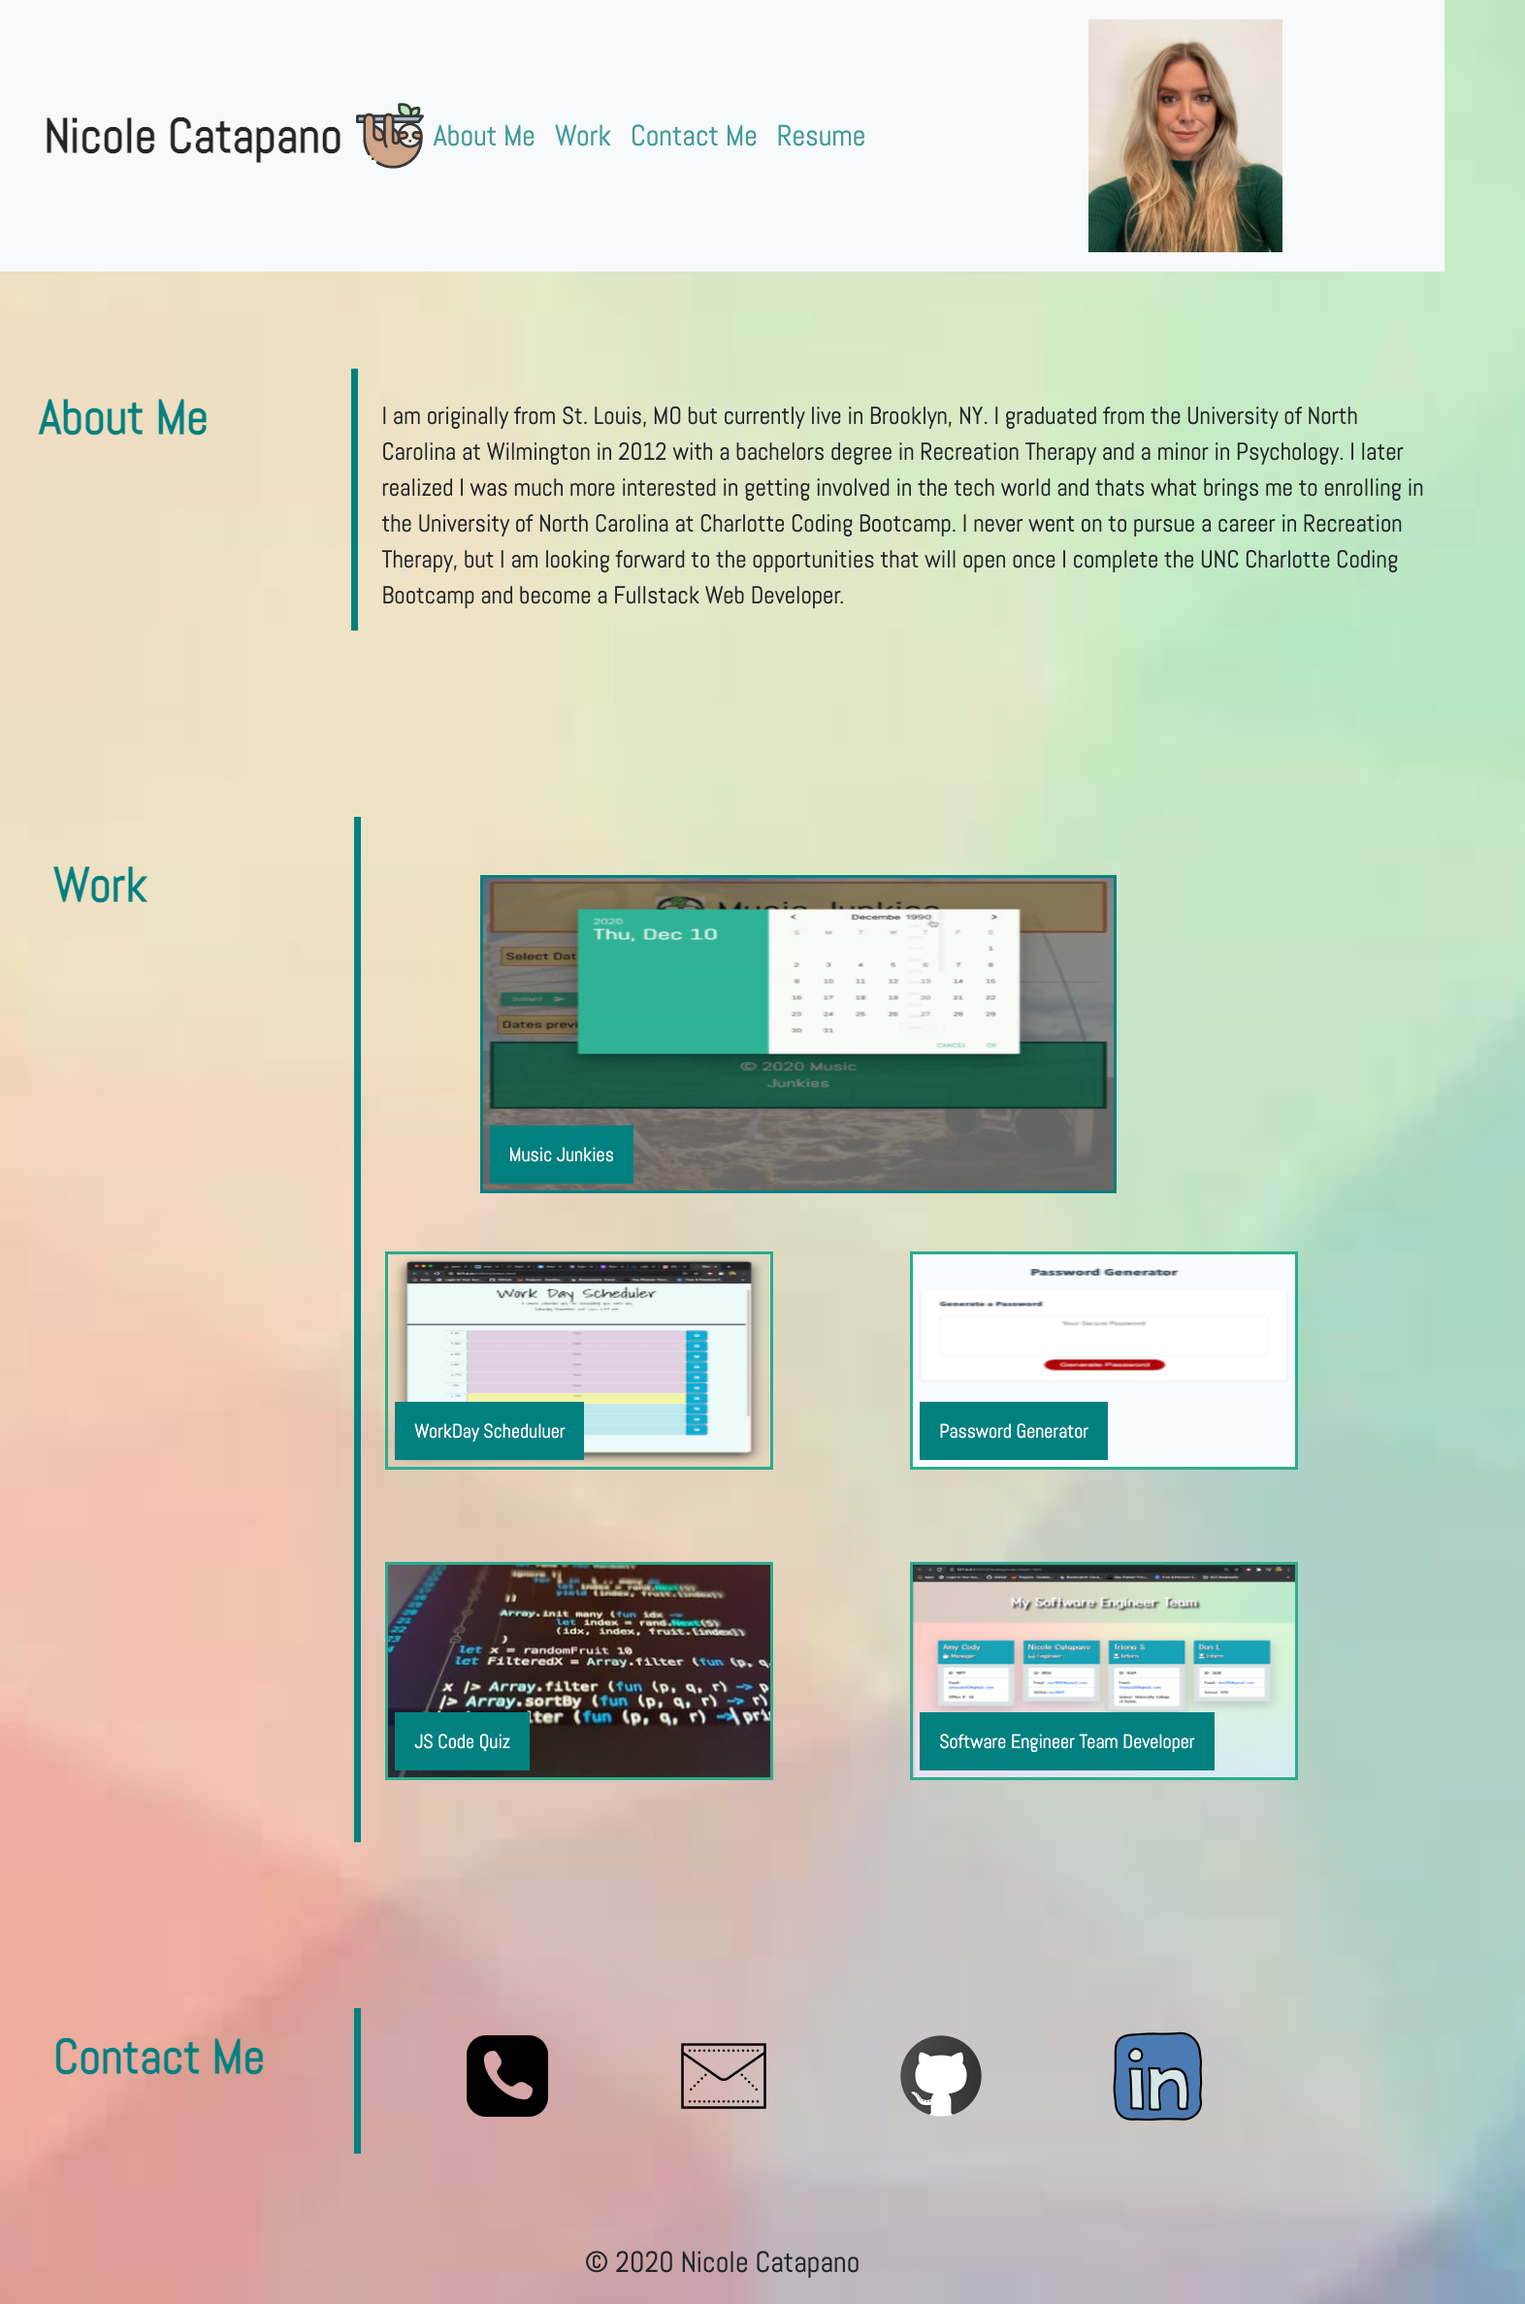
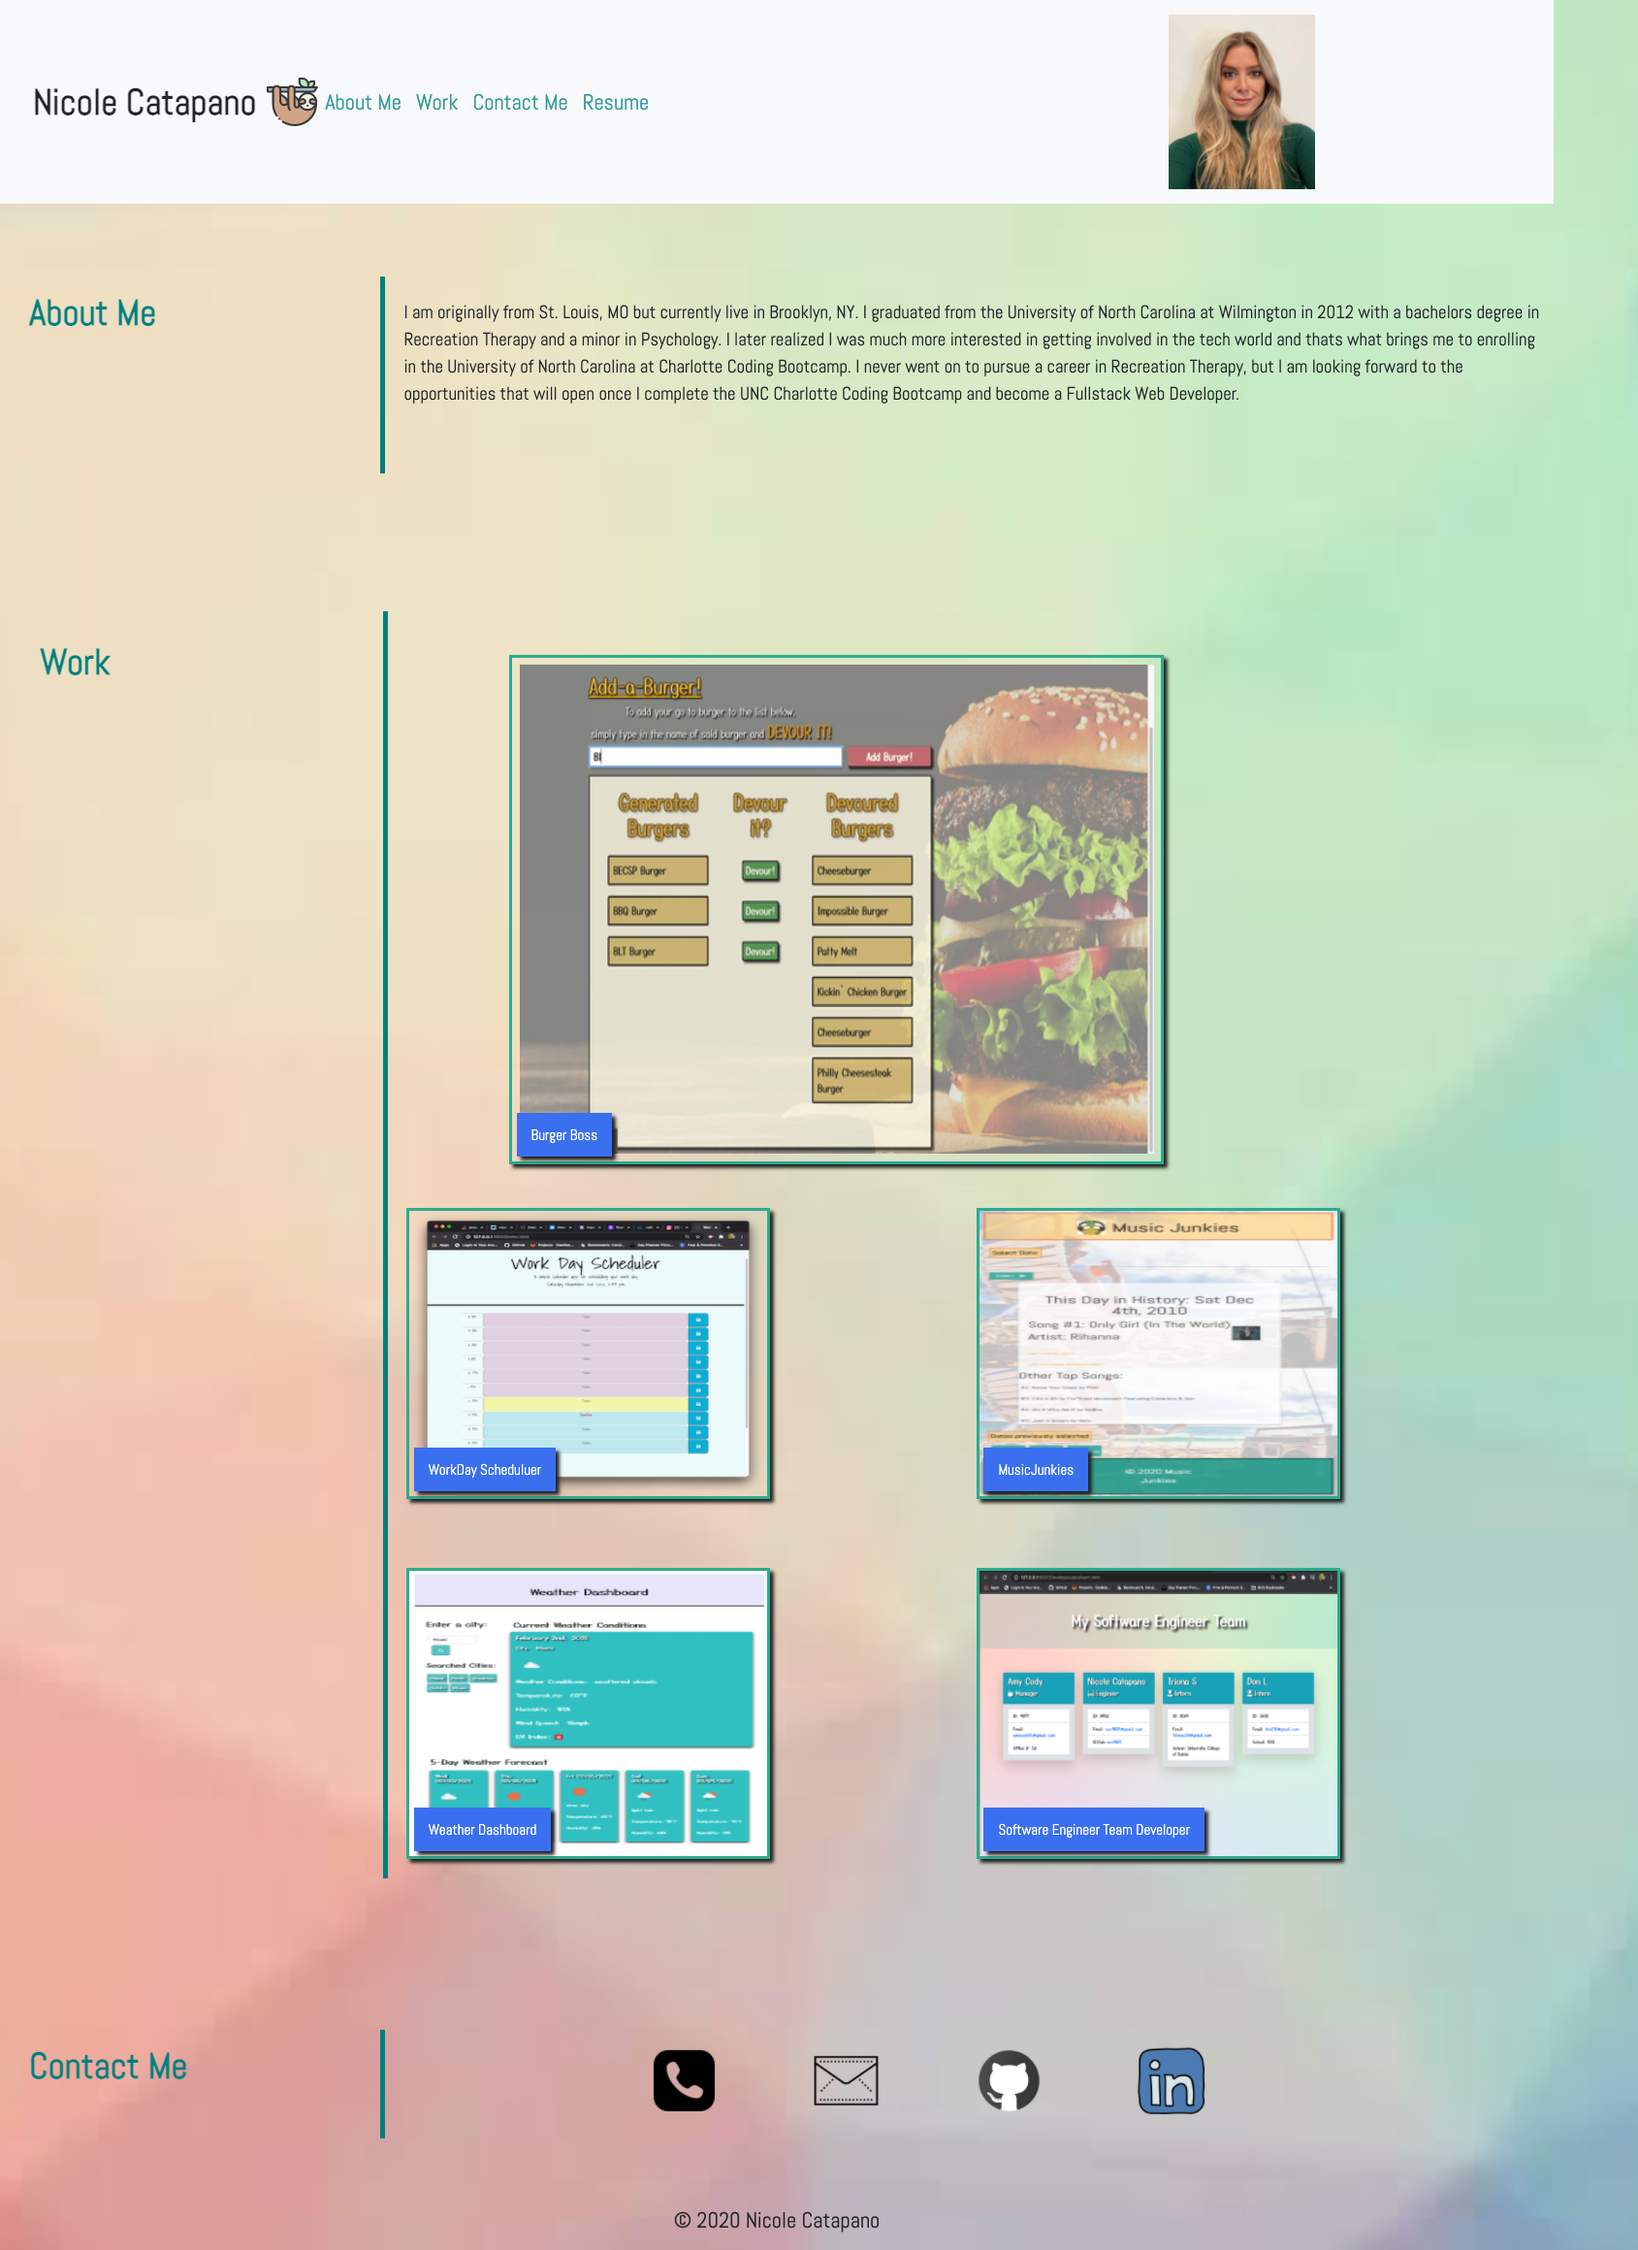
update portfolio with new projects, some styling adjustments

diff --git a/index.html b/index.html
@@ -48,8 +48,6 @@
         </nav>
           
         <!-- /.container -->
-
-            
           <div class="container-fluid">
             <!--this is about me row-->
             <div class="row divPadding" id="aboutme">
@@ -71,8 +69,7 @@
           <div class="container-fluid">
             <div class="row">
             
-            <!-- </div> -->
-          <!-- </div> -->
+           
 
  <!-- this is work row -->
             <div class="row divPadding" id="work">
@@ -91,10 +88,11 @@
                       
                         <div class="col-12 img center item"> <!-- Col-12 image larger then the rest, and item to allow work title to be on photo -->
                           <p class="label">
-                            Music Junkies
+                            Burger Boss
                           </p>
-                            <a href="https://nsc9605.github.io/MusicJunkies/" target="_blank">
-                            <img src="assets/images/MusicJunkies.gif" alt="Music Junkies" title="Music Junkies Application Demonstration"/></a>
+                            <a href="https://burger-boss-catapano.herokuapp.com" target="_blank">
+                              <img src="assets/images/Burger-Boss.gif" alt="Burger Boss" title="Burger application add and devour burgers!"/>
+                            </a>
                         </div>
                         <div class="col-6 img float-left divPadding item">
                           <p class="label">
@@ -105,18 +103,18 @@
                         </div>
                         <div class="col-6 img float-right divPadding item">
                           <p class="label">
-                            Password Generator
+                            MusicJunkies
                           </p>  
-                            <a href="https://nsc9605.github.io/RandomPasswordGen_NSC/" target="_blank">
-                            <img src="assets/images/RandomPasswordGen-NSC-demo.png" alt="Password Generator" title="Random Password Generator Application"/></a>
+                            <a href="https://nsc9605.github.io/MusicJunkies/" target="_blank">
+                              <img src="assets/images/MusicJ.png" alt="Music Junkies" title="Music Junkies Application Demonstration"/></a>
                         </div>
                        
                         <div class="col-6 img float-center divPadding item">
                           <p class="label">
-                            JS Code Quiz
+                            Weather Dashboard
                             </p>
-                            <a href="https://nsc9605.github.io/JS-CodeQuiz/" target="_blank">
-                            <img src="assets/images/quizz.jpeg" alt="quiz" title="A few lines of code with different coloration"/></a>
+                            <a href="https://nsc9605.github.io/WeatherDashboard_API/" target="_blank">
+                            <img src="assets/images/weather-dash.png" alt="weather" title="Weather Dashboard application for current and 5-day"/></a>
                             
                         </div>
                         <div class="col-6 img float-left divPadding item">
@@ -125,14 +123,15 @@
                           </p>
                             <a href="https://github.com/nsc9605/Software-Engineer-TeamGen.git" target="_blank">
                             <img src="assets/images/softwareEng.png" alt="software team generator" title="Application generates software team generator"/></a>
-                                <!-- <img src="assets/images/weather.jpg" alt="weather dashboard" title="Cell phone with apps menu"/></a> -->
+                                
                         </div>
                     </div>
 
                 </div>
             
             </div>
-
+          </div>
+        </div>
             <!--this is about me row-->
             <!-- <div class="container"> -->
               <div class="row divPadding" id="contactme">

diff --git a/assets/style.css b/assets/style.css
@@ -103,6 +103,9 @@ body {
 .links {
   display: flex;
   flex-wrap: wrap;
+  /* display: grid;
+  grid-template-columns: 1fr 1fr 1fr 1fr;
+  grid-gap: 30px; */
   padding: 15px;
   margin: 5px;
   justify-content: space-between;
@@ -118,13 +121,15 @@ body {
 
 /* format for image box in column-12 */
 .col-12 img {
-  border-color: var(--seagreen);
+  border-color: rgb(43, 172, 142);
   border-style: solid;
   align-items: center;
-  max-width: 656px;
-  max-height: 328px;
-  min-width: 656px;
-  min-height: 328px;
+  max-width: 900px;
+  max-height: 700px;
+  min-width: 900px;
+  min-height: 700px;
+  box-shadow: 5px 5px 5px #212020;
+  padding: 10px;
 }
 
 .col-6 {
@@ -139,11 +144,26 @@ body {
 .col-6 img {
   border-color: rgb(43, 172, 142);
   border-style: solid;
-  max-width: 400px;
-  max-height: 225px;
-  min-width: 400px;
-  min-height: 225px;
+  max-width: 500px;
+  max-height: 400px;
+  min-width: 500px;
+  min-height: 400px;
   flex: 0 0 0;
+  box-shadow: 5px 5px 5px #212020;
+}
+
+.col-6 img:hover {
+  border-color: rgb(21, 89, 89);
+  border-style: solid;
+  transition: all 0.3s ease 0s;
+  border-radius: 3px;
+}
+
+.col-12 img:hover {
+  border-color: rgb(21, 89, 89);
+  border-style: solid;
+  transition: all 0.3s ease 0s;
+  border-radius: 3px;
 }
 
 p {
@@ -185,18 +205,21 @@ p {
   position: absolute;
   bottom: -10px;
   left: 25px;
-  background-color: var(--teal);
+  background-color: rgb(57, 112, 240);
   color: var(--white);
+  box-shadow: 5px 5px 5px #212020;
 }
 
 a {
   color: var(--teal);
 }
 
-/* .links:hover {
-  border-bottom: 3px solid var(--peachpuff);
-
-} */
+.link-item:hover {
+  border-color: var(--teal);
+  border-style: solid;
+  transition: all 0.3s ease 0s;
+  border-radius: 3px;
+}
 
 /* Change color on hover */
 .nav-item:hover {
@@ -228,7 +251,7 @@ footer {
 }
 
 /* Responsive layout - when the screen is less than 700px wide, make the two columns stack on top of each other instead of next to each other */
-@media screen and (max-width: 700px) {
+@media screen and (max-width: 300px) {
   .row,
   .navbar,
   .col-3,
